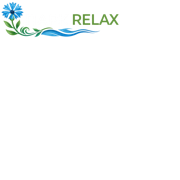
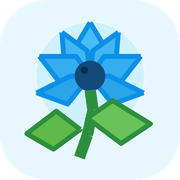
develop day 3

diff --git a/frontend/src/pages/BookingPage.tsx b/frontend/src/pages/BookingPage.tsx
@@ -1,4 +1,4 @@
-import { useEffect, useState, useCallback } from 'react'
+import { useEffect, useState, useCallback, useMemo } from 'react'
 import { useSearchParams } from 'react-router'
 import { format, addDays, startOfToday, compareAsc, startOfDay, isSameDay, isAfter, isBefore } from 'date-fns'
 import { ru } from 'date-fns/locale'
@@ -38,6 +38,12 @@ import {
 import { plainTextFromHtml } from '@/lib/safeHtml'
 
 const API_BASE = '/api'
+const cabinToTypeName: Record<string, string> = {
+  cottage: 'Коттедж',
+  apartments: 'Апартаменты',
+  summer: 'Летние домики',
+  terrace: 'Терраса с баней',
+}
 
 interface AccommodationType {
   id: number
@@ -89,6 +95,8 @@ export default function BookingPage() {
   const [searchParams, setSearchParams] = useSearchParams()
 
   const [types, setTypes] = useState<AccommodationType[]>([])
+  /** После ответа /types (успех или ошибка) — иначе при ?cabin= нельзя бесконечно ждать пустой список. */
+  const [typesReady, setTypesReady] = useState(false)
   const [objects, setObjects] = useState<Accommodation[]>([])
   const [loading, setLoading] = useState(false)
   const [totalPages, setTotalPages] = useState(1)
@@ -123,13 +131,6 @@ export default function BookingPage() {
 
   const pageSize = 10
 
-  const cabinToTypeName: Record<string, string> = {
-    cottage: 'Коттедж',
-    apartments: 'Апартаменты',
-    summer: 'Летние домики',
-    terrace: 'Терраса с баней',
-  }
-
   // Load types
   useEffect(() => {
     fetch(`${API_BASE}/accommodation/types`)
@@ -138,7 +139,22 @@ export default function BookingPage() {
         setTypes(Array.isArray(data) ? data : [])
       })
       .catch(() => setTypes([]))
+      .finally(() => setTypesReady(true))
   }, [])
+
+  /** Пока типы не пришли, ?cabin= из Hero ещё не отражён в typeId — вычисляем id для запроса. */
+  const resolvedTypeId = useMemo(() => {
+    if (types.length === 0) return typeId
+    const cabin = searchParams.get('cabin')
+    if (cabin && cabinToTypeName[cabin]) {
+      const expectedName = cabinToTypeName[cabin]
+      const found = types.find(
+        (t: AccommodationType) => t.name.toLowerCase() === expectedName.toLowerCase(),
+      )
+      if (found) return String(found.id)
+    }
+    return typeId
+  }, [typeId, types, searchParams])
 
   // Синхронизация фильтра с ?cabin= / ?typeId= (в т.ч. переход с футера)
   useEffect(() => {
@@ -159,11 +175,15 @@ export default function BookingPage() {
   // Load availability
   const loadAvailability = useCallback(async () => {
     await Promise.resolve()
+    const cabin = searchParams.get('cabin')
+    if (cabin && cabinToTypeName[cabin] && !typesReady) {
+      return
+    }
     setLoading(true)
     const params = new URLSearchParams()
     params.set('page', String(page))
     params.set('pageSize', String(pageSize))
-    if (typeId && typeId !== 'all') params.set('typeId', typeId)
+    if (resolvedTypeId && resolvedTypeId !== 'all') params.set('typeId', resolvedTypeId)
     if (dateRange?.from) params.set('checkIn', format(dateRange.from, 'yyyy-MM-dd'))
     if (dateRange?.to) params.set('checkOut', format(dateRange.to, 'yyyy-MM-dd'))
     params.set('adults', String(adults))
@@ -179,22 +199,35 @@ export default function BookingPage() {
     } finally {
       setLoading(false)
     }
-  }, [typeId, dateRange, page, adults, children])
+  }, [resolvedTypeId, dateRange, page, adults, children, typesReady, searchParams])
 
   useEffect(() => {
     loadAvailability()
   }, [loadAvailability])
 
-  // Update URL params
+  // Update URL params (мержим с текущим query, чтобы не терять ?cabin= до загрузки типов)
   useEffect(() => {
-    const params = new URLSearchParams()
-    if (typeId && typeId !== 'all') params.set('typeId', typeId)
-    if (dateRange?.from) params.set('checkIn', format(dateRange.from, 'yyyy-MM-dd'))
-    if (dateRange?.to) params.set('checkOut', format(dateRange.to, 'yyyy-MM-dd'))
-    if (page > 1) params.set('page', String(page))
-    params.set('adults', String(adults))
-    params.set('children', String(children))
-    setSearchParams(params, { replace: true })
+    setSearchParams(
+      (prev) => {
+        const params = new URLSearchParams(prev)
+        if (typeId && typeId !== 'all') {
+          params.set('typeId', typeId)
+          params.delete('cabin')
+        } else {
+          params.delete('typeId')
+        }
+        if (dateRange?.from) params.set('checkIn', format(dateRange.from, 'yyyy-MM-dd'))
+        else params.delete('checkIn')
+        if (dateRange?.to) params.set('checkOut', format(dateRange.to, 'yyyy-MM-dd'))
+        else params.delete('checkOut')
+        if (page > 1) params.set('page', String(page))
+        else params.delete('page')
+        params.set('adults', String(adults))
+        params.set('children', String(children))
+        return params
+      },
+      { replace: true },
+    )
   }, [typeId, dateRange, page, adults, children, setSearchParams])
 
   const handleRangeSelect: OnSelectHandler<DateRange | undefined> = (

diff --git a/frontend/src/sections/Hero.tsx b/frontend/src/sections/Hero.tsx
@@ -22,13 +22,13 @@ import {
 const MAX_ADULTS = 20
 const MAX_CHILDREN = 10
 
-const cabinOptions = [
-  { value: 'any', label: 'Любой' },
-  { value: 'cottage', label: 'Коттедж' },
-  { value: 'apartments', label: 'Апартаменты' },
-  { value: 'summer', label: 'Летние домики' },
-  { value: 'terrace', label: 'Терраса с баней' },
-]
+/** Типы размещения с бэка (как в секции «Размещение» и на странице бронирования). */
+interface AccommodationType {
+  id: number
+  name: string
+  isActive: boolean
+  sortOrder: number
+}
 
 /** Короткий формат даты как на макете: 25.06.2025 */
 function formatShortDate(d: Date | undefined): string {
@@ -77,7 +77,24 @@ export default function Hero() {
     : undefined
   const [adults, setAdults] = useState(2)
   const [childrenCount, setChildrenCount] = useState(0)
-  const [cabin, setCabin] = useState('any')
+  /** «Любой» или id типа из админки. */
+  const [typeFilterId, setTypeFilterId] = useState<string>('any')
+  const [accommodationTypes, setAccommodationTypes] = useState<AccommodationType[]>([])
+
+  // Типы жилья с API (активные, порядок как в админке)
+  useEffect(() => {
+    fetch('/api/accommodation/types')
+      .then((r) => r.json())
+      .then((data: unknown) => {
+        const list = Array.isArray(data) ? (data as AccommodationType[]) : []
+        setAccommodationTypes(list)
+        setTypeFilterId((prev) => {
+          if (prev === 'any') return prev
+          return list.some((t) => String(t.id) === prev) ? prev : 'any'
+        })
+      })
+      .catch(() => setAccommodationTypes([]))
+  }, [])
 
   // Два месяца рядом только на десктопе (lg ≥ 1024px); планшет/мобайл — один месяц
   const [calendarMonths, setCalendarMonths] = useState(1)
@@ -131,7 +148,7 @@ export default function Hero() {
     if (dateRange?.to) params.set('checkOut', format(dateRange.to, 'yyyy-MM-dd'))
     params.set('adults', String(adults))
     params.set('children', String(childrenCount))
-    if (cabin !== 'any') params.set('cabin', cabin)
+    if (typeFilterId !== 'any') params.set('typeId', typeFilterId)
     navigate({
       pathname: '/booking',
       search: `?${params.toString()}`,
@@ -394,14 +411,15 @@ export default function Hero() {
               <div className="flex items-center gap-3 lg:border-l border-gray-100 lg:pl-4 min-w-[160px]">
                 <div className="flex w-full flex-col">
                   <label className="text-sm text-white/90 font-semibold mb-0.5 drop-shadow-sm">Домик</label>
-                  <Select value={cabin} onValueChange={setCabin}>
+                  <Select value={typeFilterId} onValueChange={setTypeFilterId}>
                     <SelectTrigger className="w-full border-0 bg-transparent p-0 h-auto shadow-none focus:ring-0 text-lg font-extrabold text-white drop-shadow-md hover:bg-white/15 hover:shadow-[0_4px_20px_rgba(0,0,0,0.25),inset_0_1px_0_rgba(255,255,255,0.4)] hover:scale-[1.02] active:scale-[0.98] transition-all duration-200 cursor-pointer">
                       <SelectValue placeholder="Любой" />
                     </SelectTrigger>
                     <SelectContent>
-                      {cabinOptions.map((opt) => (
-                        <SelectItem key={opt.value} value={opt.value}>
-                          {opt.label}
+                      <SelectItem value="any">Любой</SelectItem>
+                      {accommodationTypes.map((t) => (
+                        <SelectItem key={t.id} value={String(t.id)}>
+                          {t.name}
                         </SelectItem>
                       ))}
                     </SelectContent>

diff --git a/frontend/index.html b/frontend/index.html
@@ -3,6 +3,7 @@
   <head>
     <meta charset="UTF-8" />
     <meta name="viewport" content="width=device-width, initial-scale=1.0" />
+    <link rel="icon" type="image/svg+xml" href="/favicon.svg" />
     <link rel="icon" type="image/png" sizes="32x32" href="/favicon.png" />
     <link rel="apple-touch-icon" href="/apple-touch-icon.png" />
     <title>Парк Relax</title>

diff --git a/.cursor/scratchpad.md b/.cursor/scratchpad.md
@@ -28,4 +28,8 @@ Favicon: растеризация `public/images/logo.svg` → `public/favicon.p
 
 Футер: якоря Инфо → плавный скролл к `#about` / `#contacts` / `#gallery` (с любой страницы через `navigate` + эффект в `Home`); Размещение → `/booking?cabin=…` (как в Hero). Попутно Hero: `formatGuestsLabel`, убран неиспользуемый `Baby`.
 
+Favicon: вместо полного логотипа — отдельный читаемый василёк `public/favicon.svg`; PNG fallback `favicon.png` 32×32 и `apple-touch-icon.png` 180×180 пересобраны из той же композиции; `index.html` подключает SVG favicon первым.
+
+Hero: селектор типа жилья — `GET /api/accommodation/types` (как карточки размещения), переход на бронирование с `?typeId=…` вместо жёсткого `cabin`. Футер по-прежнему `?cabin=` для обратной совместимости.
+
 DONE